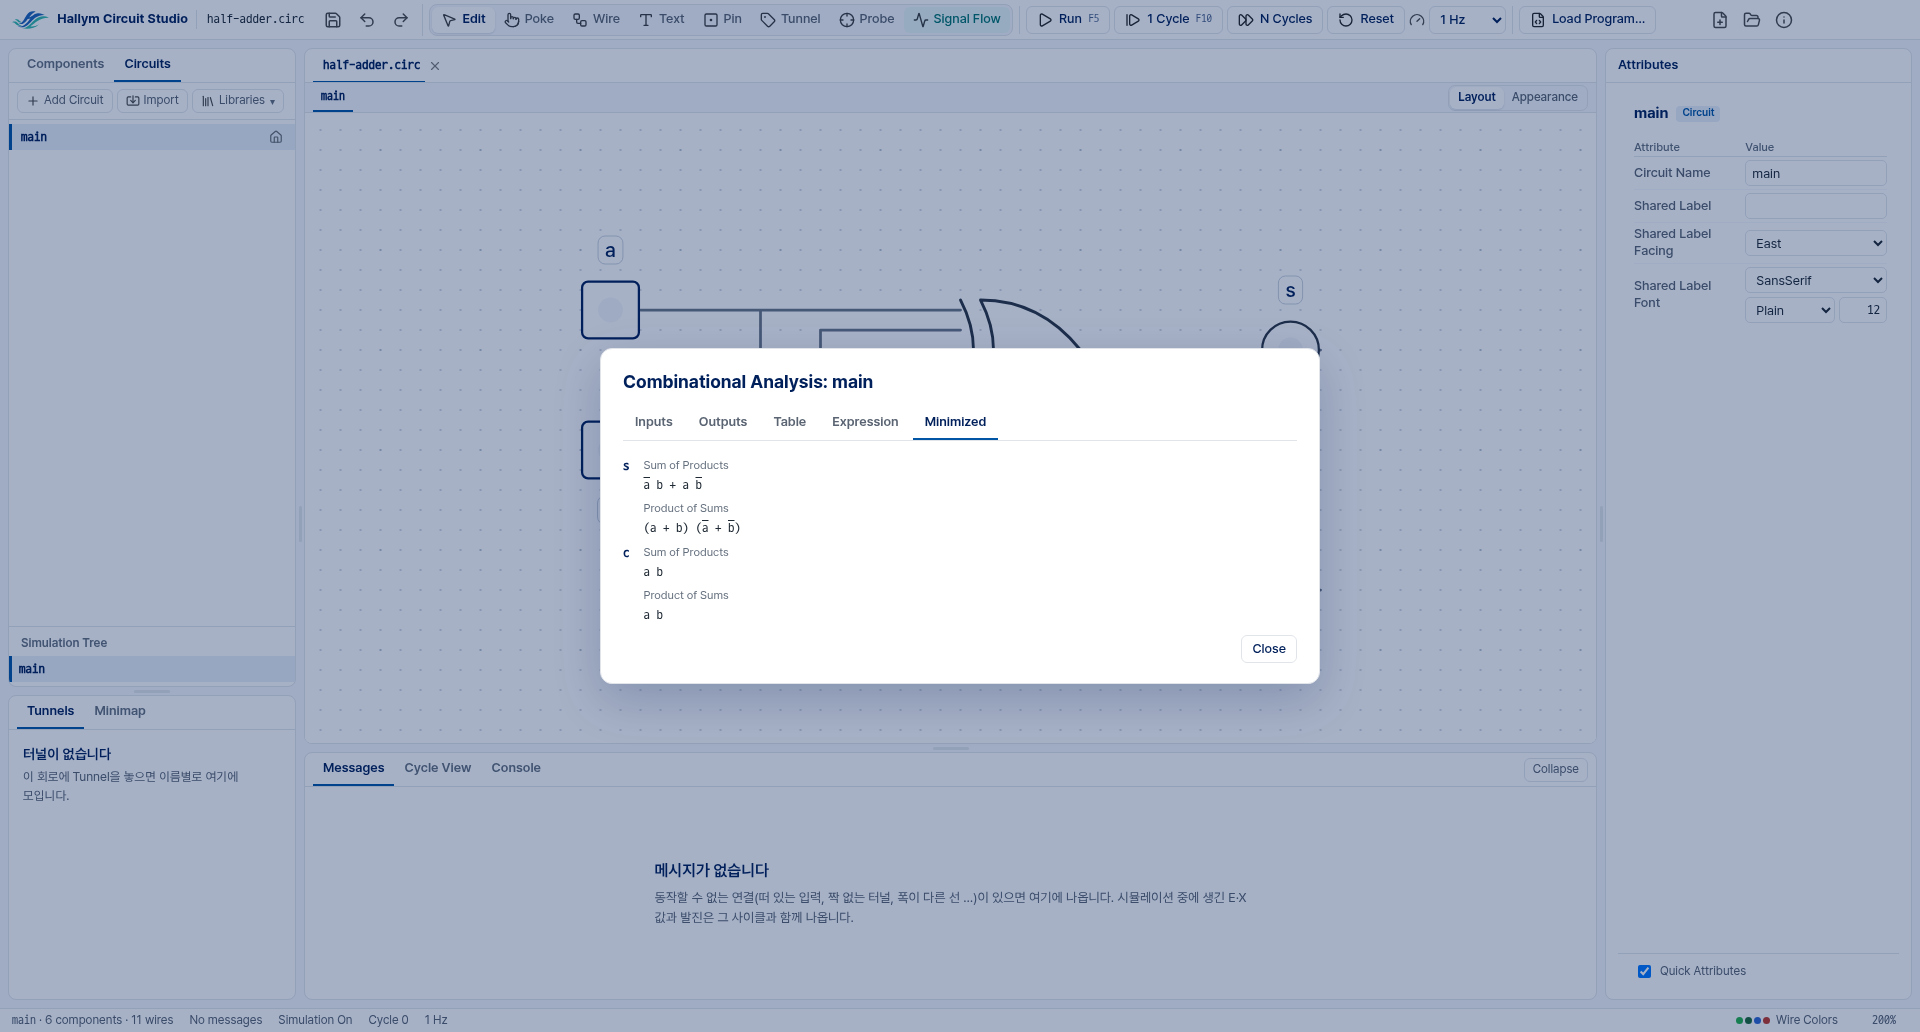
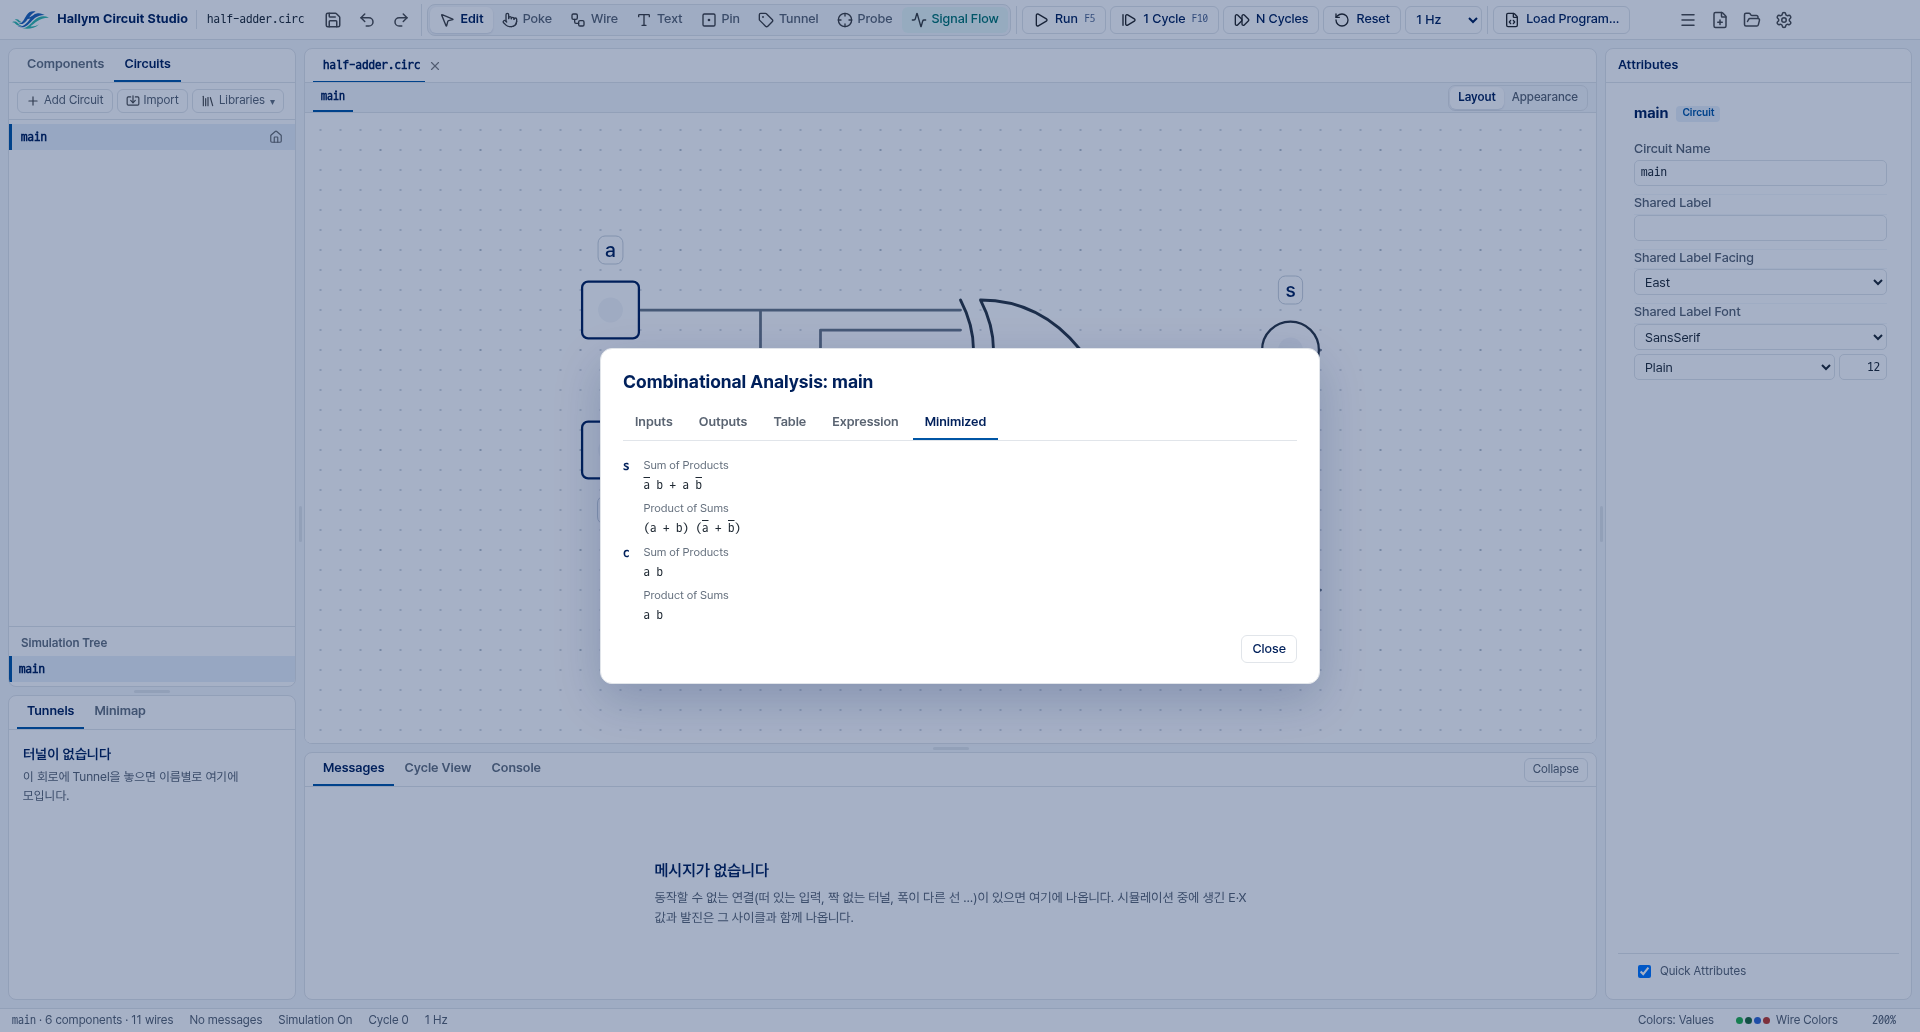
Put Create Submission, Export Image, Print, Undo History, Analyze Circuit and Statistics in the title bar's menu

Changed region(s): [[0.2188, 0.0, 0.75, 0.031], [0.8438, 0.124, 0.9375, 0.3101], [0.7812, 0.0, 0.8438, 0.031]]

diff --git a/electron/tests/unit/project-tools.test.ts b/electron/tests/unit/project-tools.test.ts
@@ -17,6 +17,7 @@ import {
   analyzeProblemText, analyzeSourceText, EXPORT_SENTENCE, expressionParts, HISTORY_HINT, PRINT_NONE, PRINT_SENTENCE, STATISTICS_HINT, SUBMISSION_HINT, historyLines, pictureName, PRINT_HEADER, statisticsLines, subSnapshot, submissionChecks,
 } from '../../src/renderer/app/logic/project-tools.ts';
 import { COMMANDS, search } from '../../src/renderer/app/logic/search.ts';
+import { appMenu, type MenuSpec } from '../../src/renderer/app/logic/menus.ts';
 
 // A Latin name, a closing quote or bracket right before a Korean particle reads wrong (D-135 14).
 const PARTICLE_AFTER_NAME = /[A-Za-z0-9_)\]`'"][을를이가은는의에과와로도만]/;
@@ -204,4 +205,26 @@ test('Print: the original\'s header (%n %p %P %%), a page per circuit, a wide pi
   assert.equal(html.match(/class="pic turn"/g)?.length, 1, 'only the wide one turns');
   assert.equal(printHtml([{ svg: SVG, name: 'm' }], { header: PRINT_HEADER, rotate: false }, '').match(/pic turn/g), null);
   assert.equal(printHtml([{ svg: SVG, name: 'm' }], { header: '  ', rotate: true }, '').includes('class="head"'), false, 'no header');
+});
+
+test('the title bar\'s menu has the original\'s places for them: File (Create Submission…, Export Image…, Print… Ctrl+P), Edit › Undo History…, Project › Analyze Circuit, Get Circuit Statistics (read only)', () => {
+  const st = { file: true, ready: true, simOn: true, ticking: false, hz: 1, frequencies: [], recent: [], examples: [], files: [], tool: 'Edit', project: { editable: false, index: 0, count: 1, main: true } };
+  const m = appMenu(st as unknown as Parameters<typeof appMenu>[0]);
+  const items = (menu: string): MenuSpec[] => m.find((x) => x.label === menu)!.items!;
+  const labels = (menu: string) => items(menu).map((i) => i.label);
+  const file = labels('File');
+  assert.ok(file.indexOf('Create Submission…') === file.indexOf('Save As…') + 1, file.join(' | '));
+  assert.ok(file.indexOf('Export Image…') < file.indexOf('Print…') && file.indexOf('Print…') < file.indexOf('Preferences…'));
+  assert.equal(items('File').find((i) => i.label === 'Print…')!.key, 'Ctrl+P');
+  assert.equal(labels('Edit')[labels('Edit').indexOf('Redo') + 1], 'Undo History…');
+  const project = items('Project');
+  for (const [label, id] of [['Analyze Circuit', 'project.analyze'], ['Get Circuit Statistics', 'project.statistics']]) {
+    const it = project.find((i) => i.label === label)!;
+    assert.equal(it.id, id);
+    assert.equal(it.disabled, undefined, `${label}: on for a file that cannot be edited (read only)`);
+  }
+  const none = appMenu({ ...st, file: false } as unknown as Parameters<typeof appMenu>[0]);
+  for (const [menu, label] of [['File', 'Export Image…'], ['Edit', 'Undo History…'], ['Project', 'Analyze Circuit']]) {
+    assert.equal(none.find((x) => x.label === menu)!.items!.find((i) => i.label === label)!.disabled, true, label);
+  }
 });

diff --git a/electron/src/renderer/app/logic/menus.ts b/electron/src/renderer/app/logic/menus.ts
@@ -8,8 +8,8 @@
    Only what the window can do is here.  Project runs the Circuits panel's
    commands (N-11's circuit-control.ts) on the circuit on show; Analyze
    Circuit and Get Circuit Statistics (the engine's read-only wrap of the
-   original's classes), Print, Export Image, Undo History, Create
-   Submission and Logging come with N-21, which adds its items to this
+   original's classes), Print, Export Image, Undo History and Create
+   Submission come with N-21 (D-162; Logging is not moved: D-162 6), which adds its items to this
    table.  Edit › Tool picks a tool, the Menu Tool too (I-84: the
    original's Base library tool, no toolbar button).  An item is off while it cannot be done now (no
    file, the engine not up). */
@@ -55,6 +55,11 @@ export function appMenu(st: MenuState): MenuSpec[] {
     SEP,
     item('Save', 'file.save', 'Ctrl+S', noFile),
     item('Save As…', 'file.saveAs', 'Ctrl+Shift+S', noFile),
+    // the original's File menu (Export Image…, Print…) and v1's Create Submission… (N-21, D-162)
+    item('Create Submission…', 'file.submission', undefined, noFile),
+    SEP,
+    item('Export Image…', 'file.export', undefined, noFile),
+    item('Print…', 'file.print', 'Ctrl+P', noFile),
     SEP,
     item('Preferences…', 'file.preferences'),
     SEP,
@@ -63,6 +68,7 @@ export function appMenu(st: MenuState): MenuSpec[] {
   const edit: MenuSpec[] = [
     item('Undo', 'edit.undo', 'Ctrl+Z', noFile),
     item('Redo', 'edit.redo', keyText('redo'), noFile),
+    item('Undo History…', 'edit.history', undefined, noFile),
     SEP,
     item('Cut', 'edit.cut', 'Ctrl+X', noFile),
     item('Copy', 'edit.copy', 'Ctrl+C', noFile),
@@ -92,6 +98,9 @@ export function appMenu(st: MenuState): MenuSpec[] {
     SEP,
     item('Edit Circuit Layout', 'project.layout', undefined, noFile || !pr),
     item('Edit Circuit Appearance', 'project.appearance', undefined, noFile || !pr),
+    // read only: on for a file that cannot be edited too (N-21)
+    item('Analyze Circuit', 'project.analyze', undefined, noFile || !pr),
+    item('Get Circuit Statistics', 'project.statistics', undefined, noFile || !pr),
   ];
   const simulate: MenuSpec[] = [
     { ...item('Simulation Enabled', 'sim.enabled', 'Ctrl+E', noFile), checked: st.file && st.simOn },

diff --git a/electron/tests/e2e/tools.e2e.ts b/electron/tests/e2e/tools.e2e.ts
@@ -128,13 +128,15 @@ test('Analyze Circuit (the original\'s, read only): the circuit menu, the simula
   }
 });
 
-test('Get Circuit Statistics: the original\'s table (Simple, Unique, Recursive) and its two totals', async () => {
+test('Get Circuit Statistics: the original\'s table (Simple, Unique, Recursive) and its two totals; from the title bar\'s Project menu', async () => {
   const r = await launch();
   const { page } = r;
   try {
     await openFile(r, sample(r.dir, DATAPATH));
     await drawn(page);
-    await circuitMenu(page, 'main', 'Get Circuit Statistics');
+    await page.getByTitle('Menu').click();
+    await page.locator('.ovmenu.barmenu').getByRole('menuitem', { name: /^Project/ }).click();
+    await page.locator('.ovmenu').nth(1).getByRole('menuitem', { name: /^Get Circuit Statistics/ }).click();
     const d = page.getByRole('dialog', { name: 'main Statistics' });
     await expect(d).toBeVisible();
     await expect(d.locator('thead th')).toHaveText(['Component', 'Library', 'Simple', 'Unique', 'Recursive']);

diff --git a/electron/src/renderer/app/app.ts b/electron/src/renderer/app/app.ts
@@ -2384,6 +2384,13 @@ async function runMenu(id: string): Promise<void> {
     case 'file.saveAs': return save(true);
     case 'file.preferences': case 'window.preferences': prefs.open(); return;
     case 'file.exit': return leave();
+    // N-21 (D-162)
+    case 'file.submission': return tools.submission();
+    case 'file.export': return tools.exportImage();
+    case 'file.print': return tools.print();
+    case 'edit.history': if (f) tools.history.open(); return;
+    case 'project.analyze': if (f) await tools.analyze(shown(f).circuit); return;
+    case 'project.statistics': if (f) await tools.statistics(shown(f).circuit); return;
     case 'edit.undo': return edit('edit.undo', 'Undo');
     case 'edit.redo': return edit('edit.redo', 'Redo');
     case 'edit.cut': case 'edit.copy': case 'edit.paste': case 'edit.delete': case 'edit.duplicate': case 'edit.selectAll':

diff --git a/electron/docs/screens/README.md b/electron/docs/screens/README.md
@@ -28,7 +28,7 @@ Every round, **all of them are retaken and overwritten** under the same names; n
 | `engine-restarted.png` | The engine ended (a crash) and started again with two files open (untitled.circ, demo-datapath.circ inside regfile): the band at the top ("엔진이 멈춰서 다시 시작했습니다 · 파일 2개를 되살렸습니다 · 시뮬레이션은 Reset 상태입니다"), the dialog "엔진이 멈췄다가 다시 시작했습니다" with the files reopened and the engine's end in its details (no character: something went wrong), the files back in their tabs behind it | the engine killed from the test |
 | `recover-dialog.png` | Opening a file with a recovery file beside it (N-19: the app ended before its edits were saved): the question before anything opens, facts only — "저장하지 않은 편집이 있습니다", `File: lab3.circ` on its own line, when the edits were written (`2026-09-28 10:00`, the fixed clock), what each answer does, under it `Recovery file: lab3.circ.hcs-recover` the same way (an English label, the name in the mono font); Discard / Recover (Recover the primary one; Esc is neither: nothing opens); **no character anywhere** (it follows an abnormal end); the file on show behind (`demo-datapath.circ`) | `lab3.circ` (a copy of `tests/circ/gates.circ`) with its recovery file beside it, its time the fixed clock's (10:00, Seoul), Ctrl+O |
 | `leave-dialog.png` | Leaving with unsaved changes (N-19): the window's close button asks before anything closes, for each file with unsaved changes — "저장하지 않은 변경이 있습니다", `File: demo-datapath.circ` on its own line, "저장하지 않고 끝내면 이 파일의 변경은 사라집니다."; Cancel / Discard / **Save** (Save the primary one; Esc is Cancel); plain, no character; the tab marked unsaved (•) behind | `demo-datapath.circ` with one edit, the window's close |
-| `circuits-panel.png` | The Circuits tab (N-11, D-153): Add Circuit · Import · Libraries ▾ over the file's circuits (the house = main), `regfile`'s right click (its row marked while the menu is up) (Edit Circuit Layout / Appearance, Rename…, Set As Main Circuit, Port Order…, Auto Appearance, Move Up/Down, Remove Circuit); under the list the Simulation Tree (main and its instances as `circuit(x,y)`); the Canvas's circuit tab row with Layout \| Appearance on its right | `demo-datapath`, Circuits tab, right click on `regfile` |
+| `circuits-panel.png` | The Circuits tab (N-11, D-153): Add Circuit · Import · Libraries ▾ over the file's circuits (the house = main), `regfile`'s right click (its row marked while the menu is up) (Edit Circuit Layout / Appearance, Analyze Circuit, Get Circuit Statistics (N-21), Rename…, Set As Main Circuit, Port Order…, Auto Appearance, Move Up/Down, Remove Circuit); under the list the Simulation Tree (main and its instances as `circuit(x,y)`); the Canvas's circuit tab row with Layout \| Appearance on its right | `demo-datapath`, Circuits tab, right click on `regfile` |
 | `port-order.png` | Port Order… for `alu`: its ports a column a side (West, East) with a drag grip, the name, in/out and width, ▲▼ (the end ones off); `A` moved down one; Cancel / Apply | Right click on `alu` › Port Order…, ▼ on the first West port |
 | `appearance-editor.png` | `alu`'s appearance (a tab of its own, "· Appearance"; the list marks it): the drawing tools (Select, Text, Line, Curve, Polyline, Rectangle, Rounded Rectangle, Oval, Polygon), the facts (Custom appearance · shapes · ports · zoom) and Revert To Default Appearance; the box chosen with its four handles, the ports in blue, the anchor; Attributes: the box's Paint Type, Stroke Width, Stroke Color | Right click on `alu` › Edit Circuit Appearance, a click on the box's edge |
 | `course-logic.png` | A new circuit in 논리설계 및 실험 (A-08, D-168): the title bar's course chip (circuit-board icon, 논리설계 및 실험) after the program's name (no Load Program… here, so the name has room; in 컴퓨터구조 the name gives way to the chip: `new-circuit.png`); no Load Program… on the toolbar; Components scrolled to Hallym MIPS (not in the file yet): Radix Probe only | 논리설계 및 실험 → 바로 시작 → 새 회로 |
